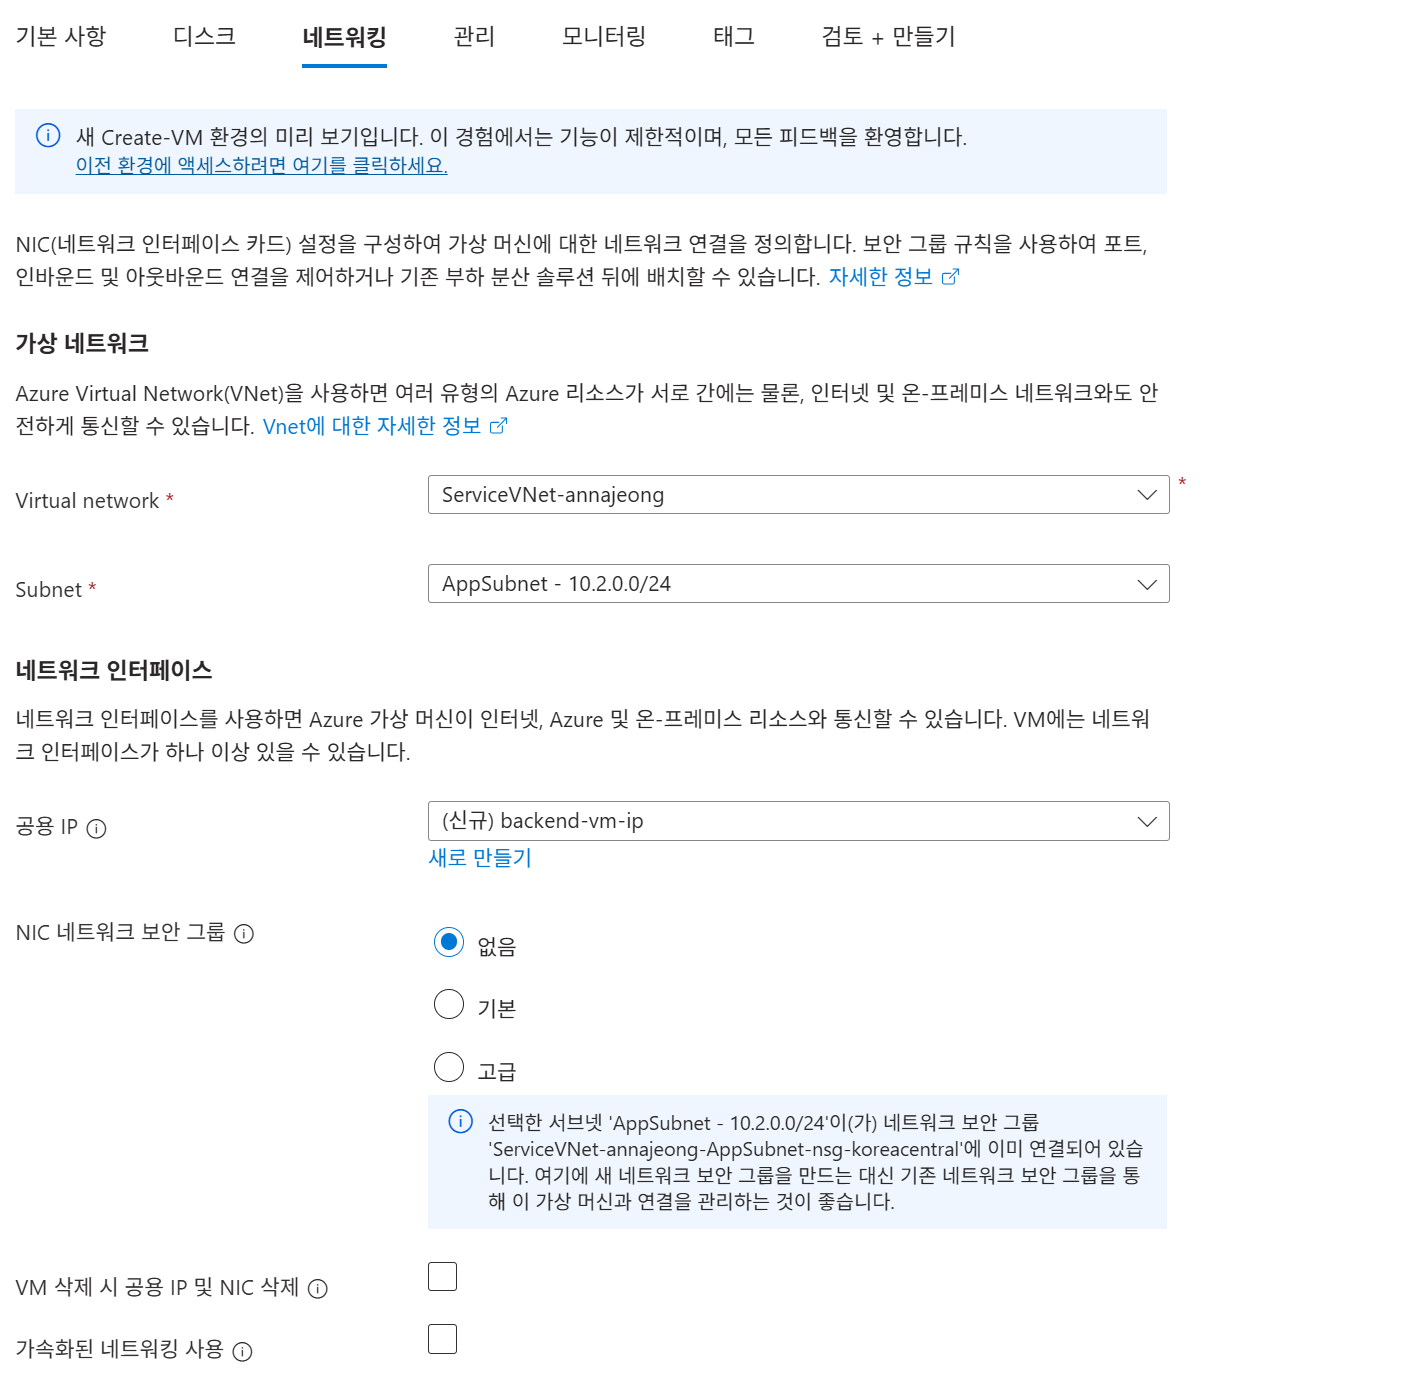
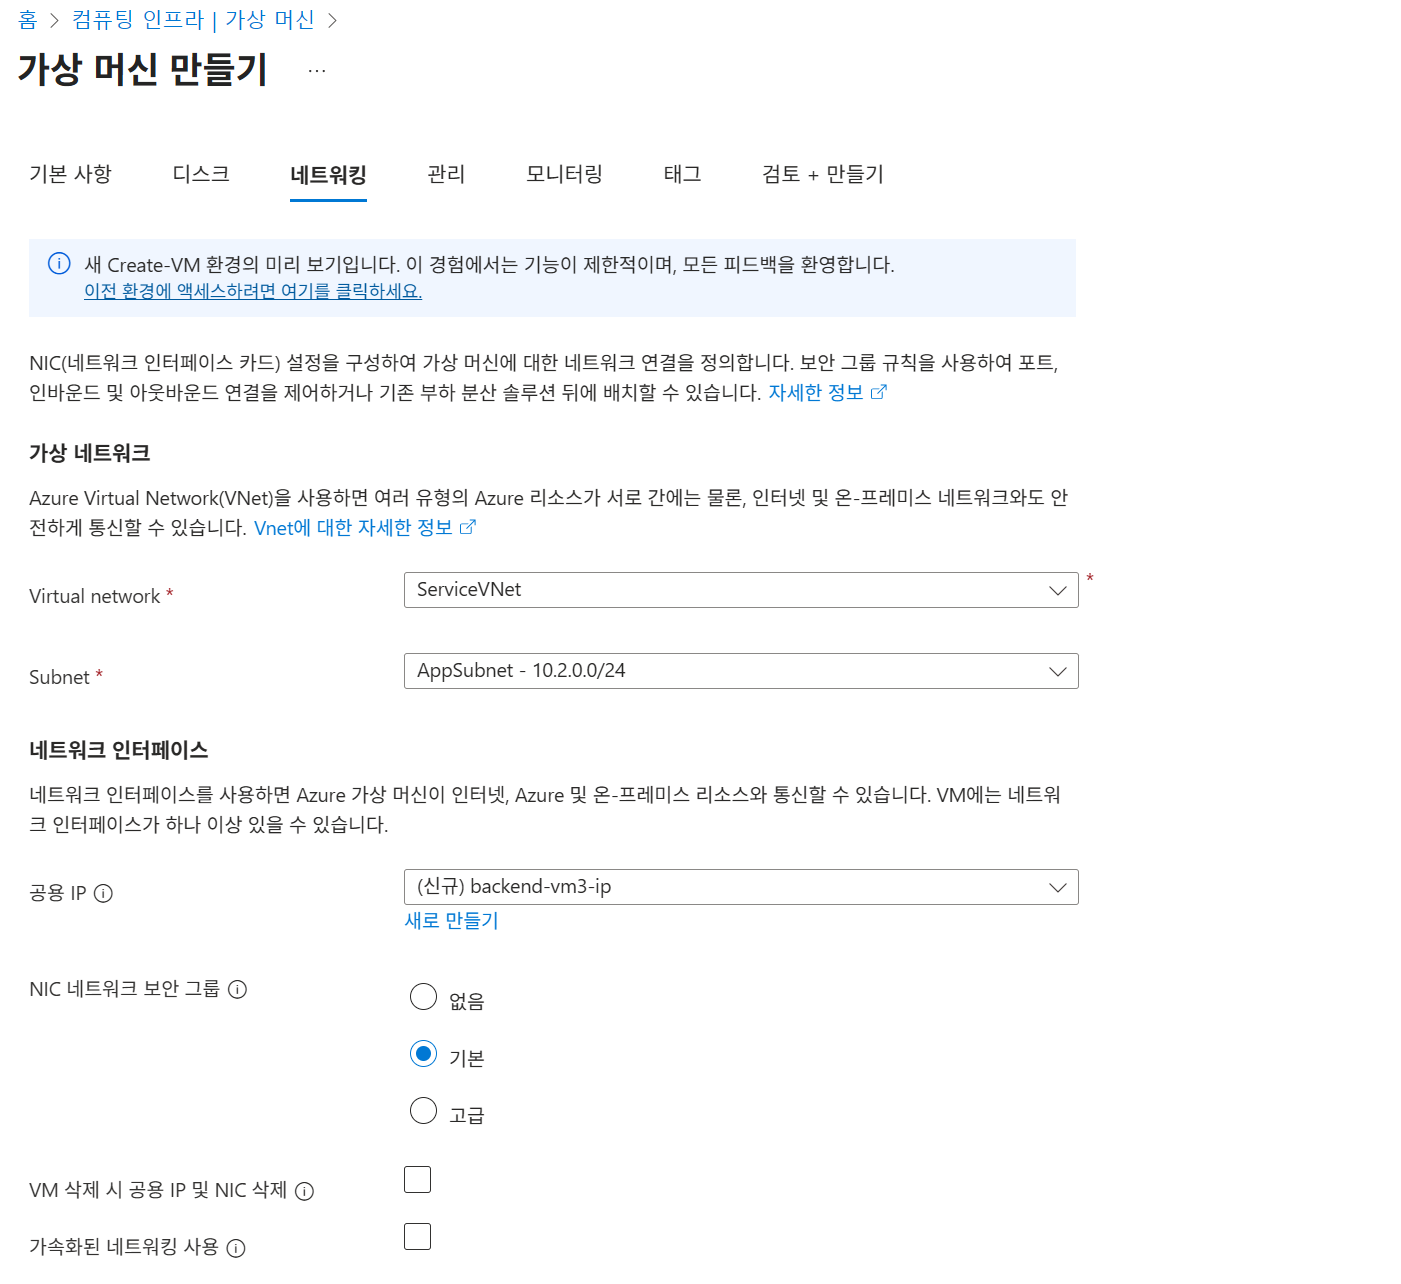
update contents

diff --git a/5. 네트워크 연결 구성/README.md b/5. 네트워크 연결 구성/README.md
@@ -89,30 +89,6 @@
 1. 경로 테이블을 입력하여 **네트워크 기반 | 경로 테이블 화면**으로 이동합니다.
 2. 아래 두 개의 경로 테이블을 구성합니다.
 
-### app-udr
-
-![Untitled](./images/Untitled%202.png)
-
-1. `만들기` 버튼을 클릭합니다.
-2. 다음과 같이 구성 후 `검토 + 만들기`, `만들기` 버튼을 클릭합니다.
-    - 구독 : 할당 받은 구독 선택
-    - 리소스 그룹 : 생성한 본인 리소스 그룹 선택
-    - 지역 : Korea Central
-    - 이름 : app-udr
-    - 게이트웨이 경로 전파 : Yes
-3. **생성된 경로 테이블 화면**으로 이동합니다.
-4. 왼쪽 메뉴에서 `설정 > 경로`를 선택합니다.
-5. `추가` 버튼을 클릭합니다.
-6. 다음과 같이 구성 후, `추가` 버튼을 클릭합니다.
-    - 경로 이름 : firewall
-    - 대상 유형 : IP 주소
-    - 대상 IP주소/CIDR 범위 : <AGWSubnet의 CIDR>
-    - 다음 홉 형식 : 가상 어플라이언스
-    - 다음 홉 주소 : <방화벽의 개인 IP>
-7. 왼쪽 메뉴에서 `설정 > 서브넷`을 선택합니다.
-8. `연결` 버튼을 클릭합니다.
-9. 서브넷 연결에서 가상 네트워크를 `ServiceVNet`, 서브넷을 `AppSubnet`으로 선택하고 확인 버튼을 클릭합니다.
-
 ### appgw-udr
 
 ![Untitled](./images/Untitled%203.png)
@@ -136,3 +112,27 @@
 7. 왼쪽 메뉴에서 `설정 > 서브넷`을 선택합니다.
 8. `연결` 버튼을 클릭합니다.
 9. 서브넷 연결에서 가상 네트워크를 `SecurityVNet`, 서브넷을 `AGWSubnet`으로 선택하고 `확인` 버튼을 클릭합니다.
+
+### app-udr
+
+![Untitled](./images/Untitled%202.png)
+
+1. `만들기` 버튼을 클릭합니다.
+2. 다음과 같이 구성 후 `검토 + 만들기`, `만들기` 버튼을 클릭합니다.
+    - 구독 : 할당 받은 구독 선택
+    - 리소스 그룹 : 생성한 본인 리소스 그룹 선택
+    - 지역 : Korea Central
+    - 이름 : app-udr
+    - 게이트웨이 경로 전파 : Yes
+3. **생성된 경로 테이블 화면**으로 이동합니다.
+4. 왼쪽 메뉴에서 `설정 > 경로`를 선택합니다.
+5. `추가` 버튼을 클릭합니다.
+6. 다음과 같이 구성 후, `추가` 버튼을 클릭합니다.
+    - 경로 이름 : firewall
+    - 대상 유형 : IP 주소
+    - 대상 IP주소/CIDR 범위 : <AGWSubnet의 CIDR>
+    - 다음 홉 형식 : 가상 어플라이언스
+    - 다음 홉 주소 : <방화벽의 개인 IP>
+7. 왼쪽 메뉴에서 `설정 > 서브넷`을 선택합니다.
+8. `연결` 버튼을 클릭합니다.
+9. 서브넷 연결에서 가상 네트워크를 `ServiceVNet`, 서브넷을 `AppSubnet`으로 선택하고 확인 버튼을 클릭합니다.

diff --git a/4. 테스트 리소스 배포/README.md b/4. 테스트 리소스 배포/README.md
@@ -22,6 +22,8 @@
         - 인증 유형 : 암호
         - 사용자 이름 : azureuser
         - 암호 : Workshop12!@
+    - 인바운드 포트 규칙
+        - 공용 인바운드 포트 : 없음
 4. 나머지 설정은 그대로 두고 `다음` 버튼을 클릭합니다.
 5. 디스크 설정은 그대로 두고 `다음` 버튼을 클릭합니다.
 6. 네트워킹 탭을 아래와 같이 구성합니다.
@@ -31,6 +33,7 @@
     - 가상 네트워크 : `ServiceVNet`
     - 서브넷 : `AppSubnet`
     - 공용 IP : (신규) backend-vm-ip
+    - NIC 네트워크 보안 그룹 : 기본
 7. 나머지 설정은 그대로 두고 `검토 + 만들기` 버튼을 클릭하여 가상 머신을 생성합니다.
 
 ## 샘플 애플리케이션 구성
